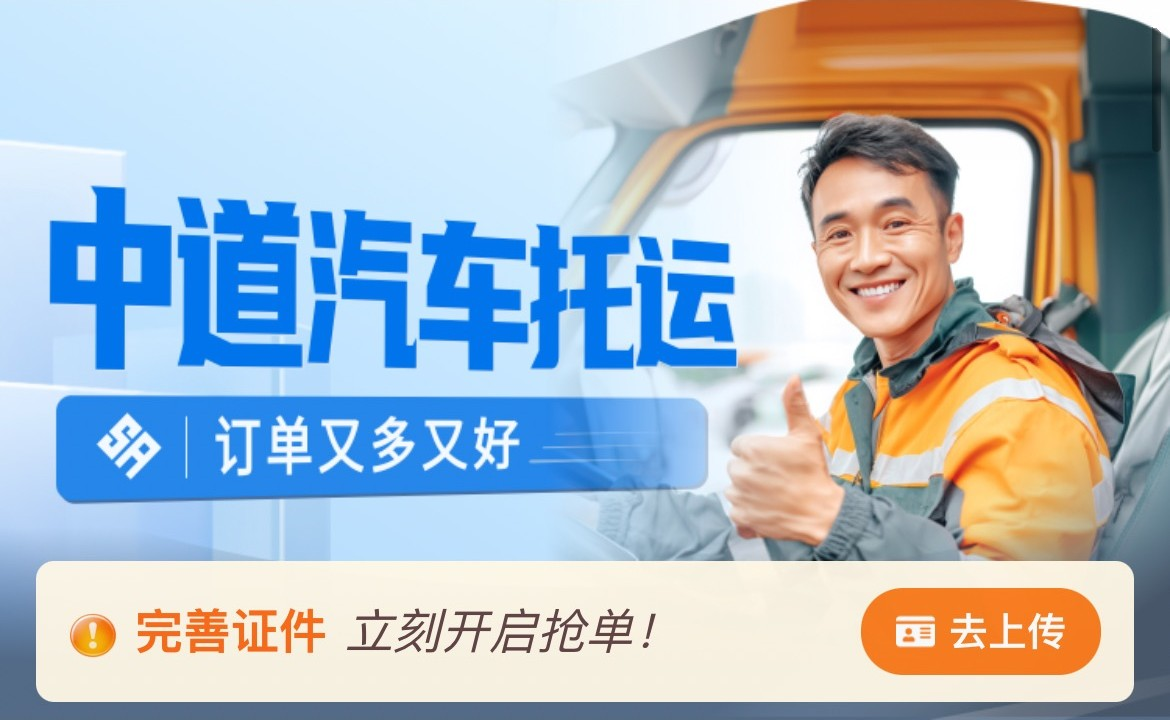
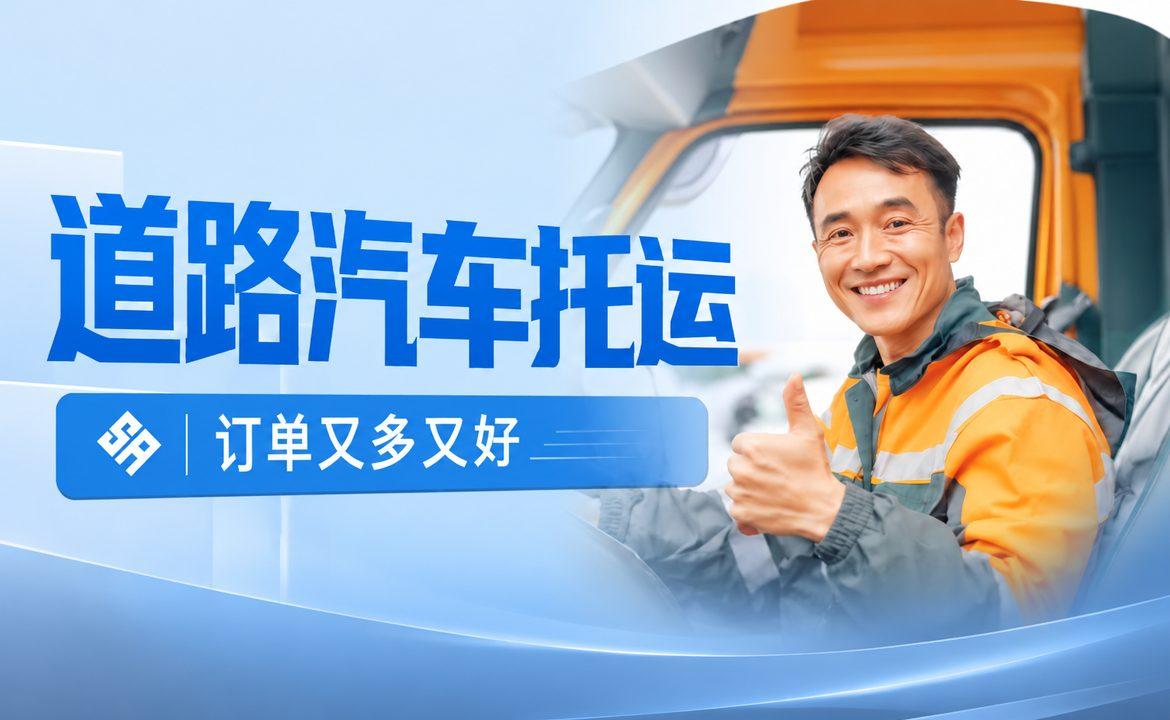
司机端补全责任保险单上传并压缩大厅横幅
- 大厅横幅去掉烘焙进图片的“完善证件”条并压缩到约90KB，点击入口改由页面元素承担
- driver_info 新增保单号、保单照片、保单到期日，后端校验必填与未过期
- real 适配层接入保单读取与提交，并补充幂等迁移脚本

diff --git a/apps/driver-uniapp/mock/real-adapter.js b/apps/driver-uniapp/mock/real-adapter.js
@@ -105,6 +105,10 @@ function myOrders() {
   })
 }
 
+function fromRemotePolicy(d) {
+  return { policyPhoto: d.policyPhotoUrl || '', policyNo: d.policyNo, expireDate: d.policyExpireDate ? String(d.policyExpireDate).slice(0, 10) : '' }
+}
+
 const handlers = [
   ['POST', /^\/login$/, () => call('GET', '/driver/demoLogin').then(r => (r.code === 200 ? ok({ token: r.data }) : r))],
   ['POST', /^\/logout$/, () => Promise.resolve(ok(null))],
@@ -127,11 +131,26 @@ const handlers = [
       auth: authed ? (local.data.auth || []).map(a => ({ ...a, done: true })) : local.data.auth
     })
   })],
-  ['GET', /^\/auth\/status$/, () => Promise.all([call('GET', '/driver/getDriverLoginInfo'), localMock({ url: '/auth/status', method: 'GET' })]).then(([info, local]) => {
+  ['GET', /^\/auth\/status$/, () => Promise.all([call('GET', '/driver/getDriverLoginInfo'), call('GET', '/driver/getDriverAuthInfo'), localMock({ url: '/auth/status', method: 'GET' })]).then(([info, remote, local]) => {
+    const insurance = remote.code === 200 && remote.data && remote.data.policyNo ? fromRemotePolicy(remote.data) : null
+    const data = { ...local.data, ...(insurance ? { insurance } : {}) }
     if (info.code === 200 && info.data.authStatus === 2) {
-      return ok({ ...local.data, steps: local.data.steps.map(s => ({ ...s, done: true })) })
+      return ok({ data, steps: local.data.steps.map(s => ({ ...s, done: true })) })
     }
-    return local
+    return ok({ data, steps: local.data.steps.map(s => (s.key === 'insurance' && insurance ? { ...s, done: true } : s)) })
+  })],
+  ['POST', /^\/auth\/insurance$/, ({ data }) => call('GET', '/driver/getDriverLoginInfo').then(info => {
+    const authed = info.code === 200 && info.data.authStatus === 2
+    const submit = () => call('POST', '/driver/updateDriverAuthInfo', {
+      policyNo: data.policyNo,
+      policyPhotoUrl: data.policyPhoto,
+      policyExpireDate: data.expireDate
+    })
+    if (authed) {
+      return submit().then(r => (r.code === 200 ? ok({}) : r))
+    }
+    // 个人信息、车辆资料仍在本地 mock：先过本地的顺序和必填校验，再写后端
+    return localMock({ url: '/auth/insurance', method: 'POST', data }).then(r => (r.code !== 200 ? r : submit().then(s => (s.code === 200 ? r : s))))
   })],
   ['GET', /^\/hall\/orders$/, ({ query }) => {
     // 上报失败时返回具体原因，避免把未开启接单等错误伪装成“暂无订单”。

diff --git a/backend/daijia-parent/service/service-driver/src/main/java/com/atguigu/daijia/driver/service/impl/DriverInfoServiceImpl.java b/backend/daijia-parent/service/service-driver/src/main/java/com/atguigu/daijia/driver/service/impl/DriverInfoServiceImpl.java
@@ -34,6 +34,8 @@ import org.springframework.stereotype.Service;
 import org.springframework.util.StringUtils;
 
 import java.math.BigDecimal;
+import java.time.LocalDate;
+import java.time.ZoneId;
 import java.util.Date;
 
 @Slf4j
@@ -144,7 +146,7 @@ public class DriverInfoServiceImpl extends ServiceImpl<DriverInfoMapper, DriverI
         driverAuthInfoVo.setDriverLicenseFrontShowUrl(cosService.getImageUrl(driverAuthInfoVo.getDriverLicenseFrontUrl()));
         driverAuthInfoVo.setDriverLicenseBackShowUrl(cosService.getImageUrl(driverAuthInfoVo.getDriverLicenseBackUrl()));
         driverAuthInfoVo.setDriverLicenseHandShowUrl(cosService.getImageUrl(driverAuthInfoVo.getDriverLicenseHandUrl()));
-
+        //policyPhotoUrl 是 dataURL 或已是完整 URL，不能走 COS 签名，直接返回库里的值
         return driverAuthInfoVo;
     }
 
@@ -154,14 +156,45 @@ public class DriverInfoServiceImpl extends ServiceImpl<DriverInfoMapper, DriverI
         //获取司机id
         Long driverId = updateDriverAuthInfoForm.getDriverId();
 
-        //修改操作
+        //只有带了保单字段才校验，个人信息、驾驶证的更新保持原行为
+        if (hasPolicyField(updateDriverAuthInfoForm)) {
+            validatePolicy(updateDriverAuthInfoForm);
+        }
+
+        //修改操作，BeanUtils 会拷入 null，但 updateById 默认跳过 null 字段，未提交的保单不会被清空
         DriverInfo driverInfo = new DriverInfo();
         driverInfo.setId(driverId);
         BeanUtils.copyProperties(updateDriverAuthInfoForm,driverInfo);
 
-//        int i = driverInfoMapper.updateById(driverInfo);
         boolean update = this.updateById(driverInfo);
         return update;
+    }
+
+    private boolean hasPolicyField(UpdateDriverAuthInfoForm form) {
+        return form.getPolicyNo() != null
+                || form.getPolicyPhotoUrl() != null
+                || form.getPolicyExpireDate() != null;
+    }
+
+    //保单字段要齐全且有效。到期日按东八区取“今天”，服务器时区是 UTC 时午夜前后会判错
+    private void validatePolicy(UpdateDriverAuthInfoForm form) {
+        String policyNo = form.getPolicyNo();
+        if (!StringUtils.hasText(policyNo)) {
+            throw new GuiguException(ResultCodeEnum.ARGUMENT_VALID_ERROR.getCode(), "保单号不能为空");
+        }
+        if (policyNo.length() > 50) {
+            throw new GuiguException(ResultCodeEnum.ARGUMENT_VALID_ERROR.getCode(), "保单号不能超过50个字符");
+        }
+        if (!StringUtils.hasText(form.getPolicyPhotoUrl())) {
+            throw new GuiguException(ResultCodeEnum.ARGUMENT_VALID_ERROR.getCode(), "请上传责任险保单照片");
+        }
+        LocalDate expireDate = form.getPolicyExpireDate();
+        if (expireDate == null) {
+            throw new GuiguException(ResultCodeEnum.ARGUMENT_VALID_ERROR.getCode(), "请填写保单到期日");
+        }
+        if (expireDate.isBefore(LocalDate.now(ZoneId.of("Asia/Shanghai")))) {
+            throw new GuiguException(ResultCodeEnum.ARGUMENT_VALID_ERROR.getCode(), "责任险保单已过期，请更换有效保单");
+        }
     }
 
     //创建司机人脸模型

diff --git a/backend/daijia-parent/model/src/main/java/com/atguigu/daijia/model/entity/driver/DriverInfo.java b/backend/daijia-parent/model/src/main/java/com/atguigu/daijia/model/entity/driver/DriverInfo.java
@@ -7,6 +7,7 @@ import io.swagger.v3.oas.annotations.media.Schema;
 import lombok.Data;
 
 import java.math.BigDecimal;
+import java.time.LocalDate;
 import java.util.Date;
 
 @Data
@@ -111,6 +112,18 @@ public class DriverInfo extends BaseEntity {
     @Schema(description = "腾讯云人脸模型id")
 	@TableField("face_model_id")
 	private String faceModelId;
+
+    @Schema(description = "责任险保单号")
+	@TableField("policy_no")
+	private String policyNo;
+
+    @Schema(description = "责任险保单照片，演示版为压缩后的dataURL（约40-100KB），线上为对象存储URL，故用MEDIUMTEXT")
+	@TableField("policy_photo_url")
+	private String policyPhotoUrl;
+
+    @Schema(description = "责任险保单到期日")
+	@TableField("policy_expire_date")
+	private LocalDate policyExpireDate;
 
 	@Schema(description = "司机工号")
 	@TableField("job_no")

diff --git a/backend/daijia-parent/model/src/main/java/com/atguigu/daijia/model/form/driver/UpdateDriverAuthInfoForm.java b/backend/daijia-parent/model/src/main/java/com/atguigu/daijia/model/form/driver/UpdateDriverAuthInfoForm.java
@@ -4,6 +4,7 @@ import com.baomidou.mybatisplus.annotation.TableField;
 import io.swagger.v3.oas.annotations.media.Schema;
 import lombok.Data;
 
+import java.time.LocalDate;
 import java.util.Date;
 
 @Data
@@ -78,4 +79,13 @@ public class UpdateDriverAuthInfoForm {
 
     @Schema(description = "紧急联系人关系")
     private String contactRelationship;
+
+    @Schema(description = "责任险保单号，与其他保单字段一起提交时必填，最长50字符")
+    private String policyNo;
+
+    @Schema(description = "责任险保单照片，dataURL或对象存储URL")
+    private String policyPhotoUrl;
+
+    @Schema(description = "责任险保单到期日 yyyy-MM-dd，不早于今天")
+    private LocalDate policyExpireDate;
 }

diff --git a/backend/daijia-parent/model/src/main/java/com/atguigu/daijia/model/vo/driver/DriverAuthInfoVo.java b/backend/daijia-parent/model/src/main/java/com/atguigu/daijia/model/vo/driver/DriverAuthInfoVo.java
@@ -4,6 +4,7 @@ import com.baomidou.mybatisplus.annotation.TableField;
 import io.swagger.v3.oas.annotations.media.Schema;
 import lombok.Data;
 
+import java.time.LocalDate;
 import java.util.Date;
 
 @Data
@@ -84,4 +85,13 @@ public class DriverAuthInfoVo {
 
     @Schema(description = "紧急联系人关系")
     private String contactRelationship;
+
+    @Schema(description = "责任险保单号")
+    private String policyNo;
+
+    @Schema(description = "责任险保单照片，原样返回库里的值（dataURL或完整URL），不做COS签名")
+    private String policyPhotoUrl;
+
+    @Schema(description = "责任险保单到期日")
+    private LocalDate policyExpireDate;
 }

diff --git a/backend/daijia-parent/web/web-driver/src/main/java/com/atguigu/daijia/driver/service/impl/DriverServiceImpl.java b/backend/daijia-parent/web/web-driver/src/main/java/com/atguigu/daijia/driver/service/impl/DriverServiceImpl.java
@@ -67,6 +67,10 @@ public class DriverServiceImpl implements DriverService {
     @Override
     public Boolean updateDriverAuthInfo(UpdateDriverAuthInfoForm updateDriverAuthInfoForm) {
         Result<Boolean> booleanResult = driverInfoFeignClient.UpdateDriverAuthInfo(updateDriverAuthInfoForm);
+        //service-driver 校验失败时返回业务码与中文提示，这里要透传，否则调用方只会看到 200 和 null
+        if (!ResultCodeEnum.SUCCESS.getCode().equals(booleanResult.getCode())) {
+            throw new GuiguException(booleanResult.getCode(), booleanResult.getMessage());
+        }
         Boolean data = booleanResult.getData();
         return data;
     }
